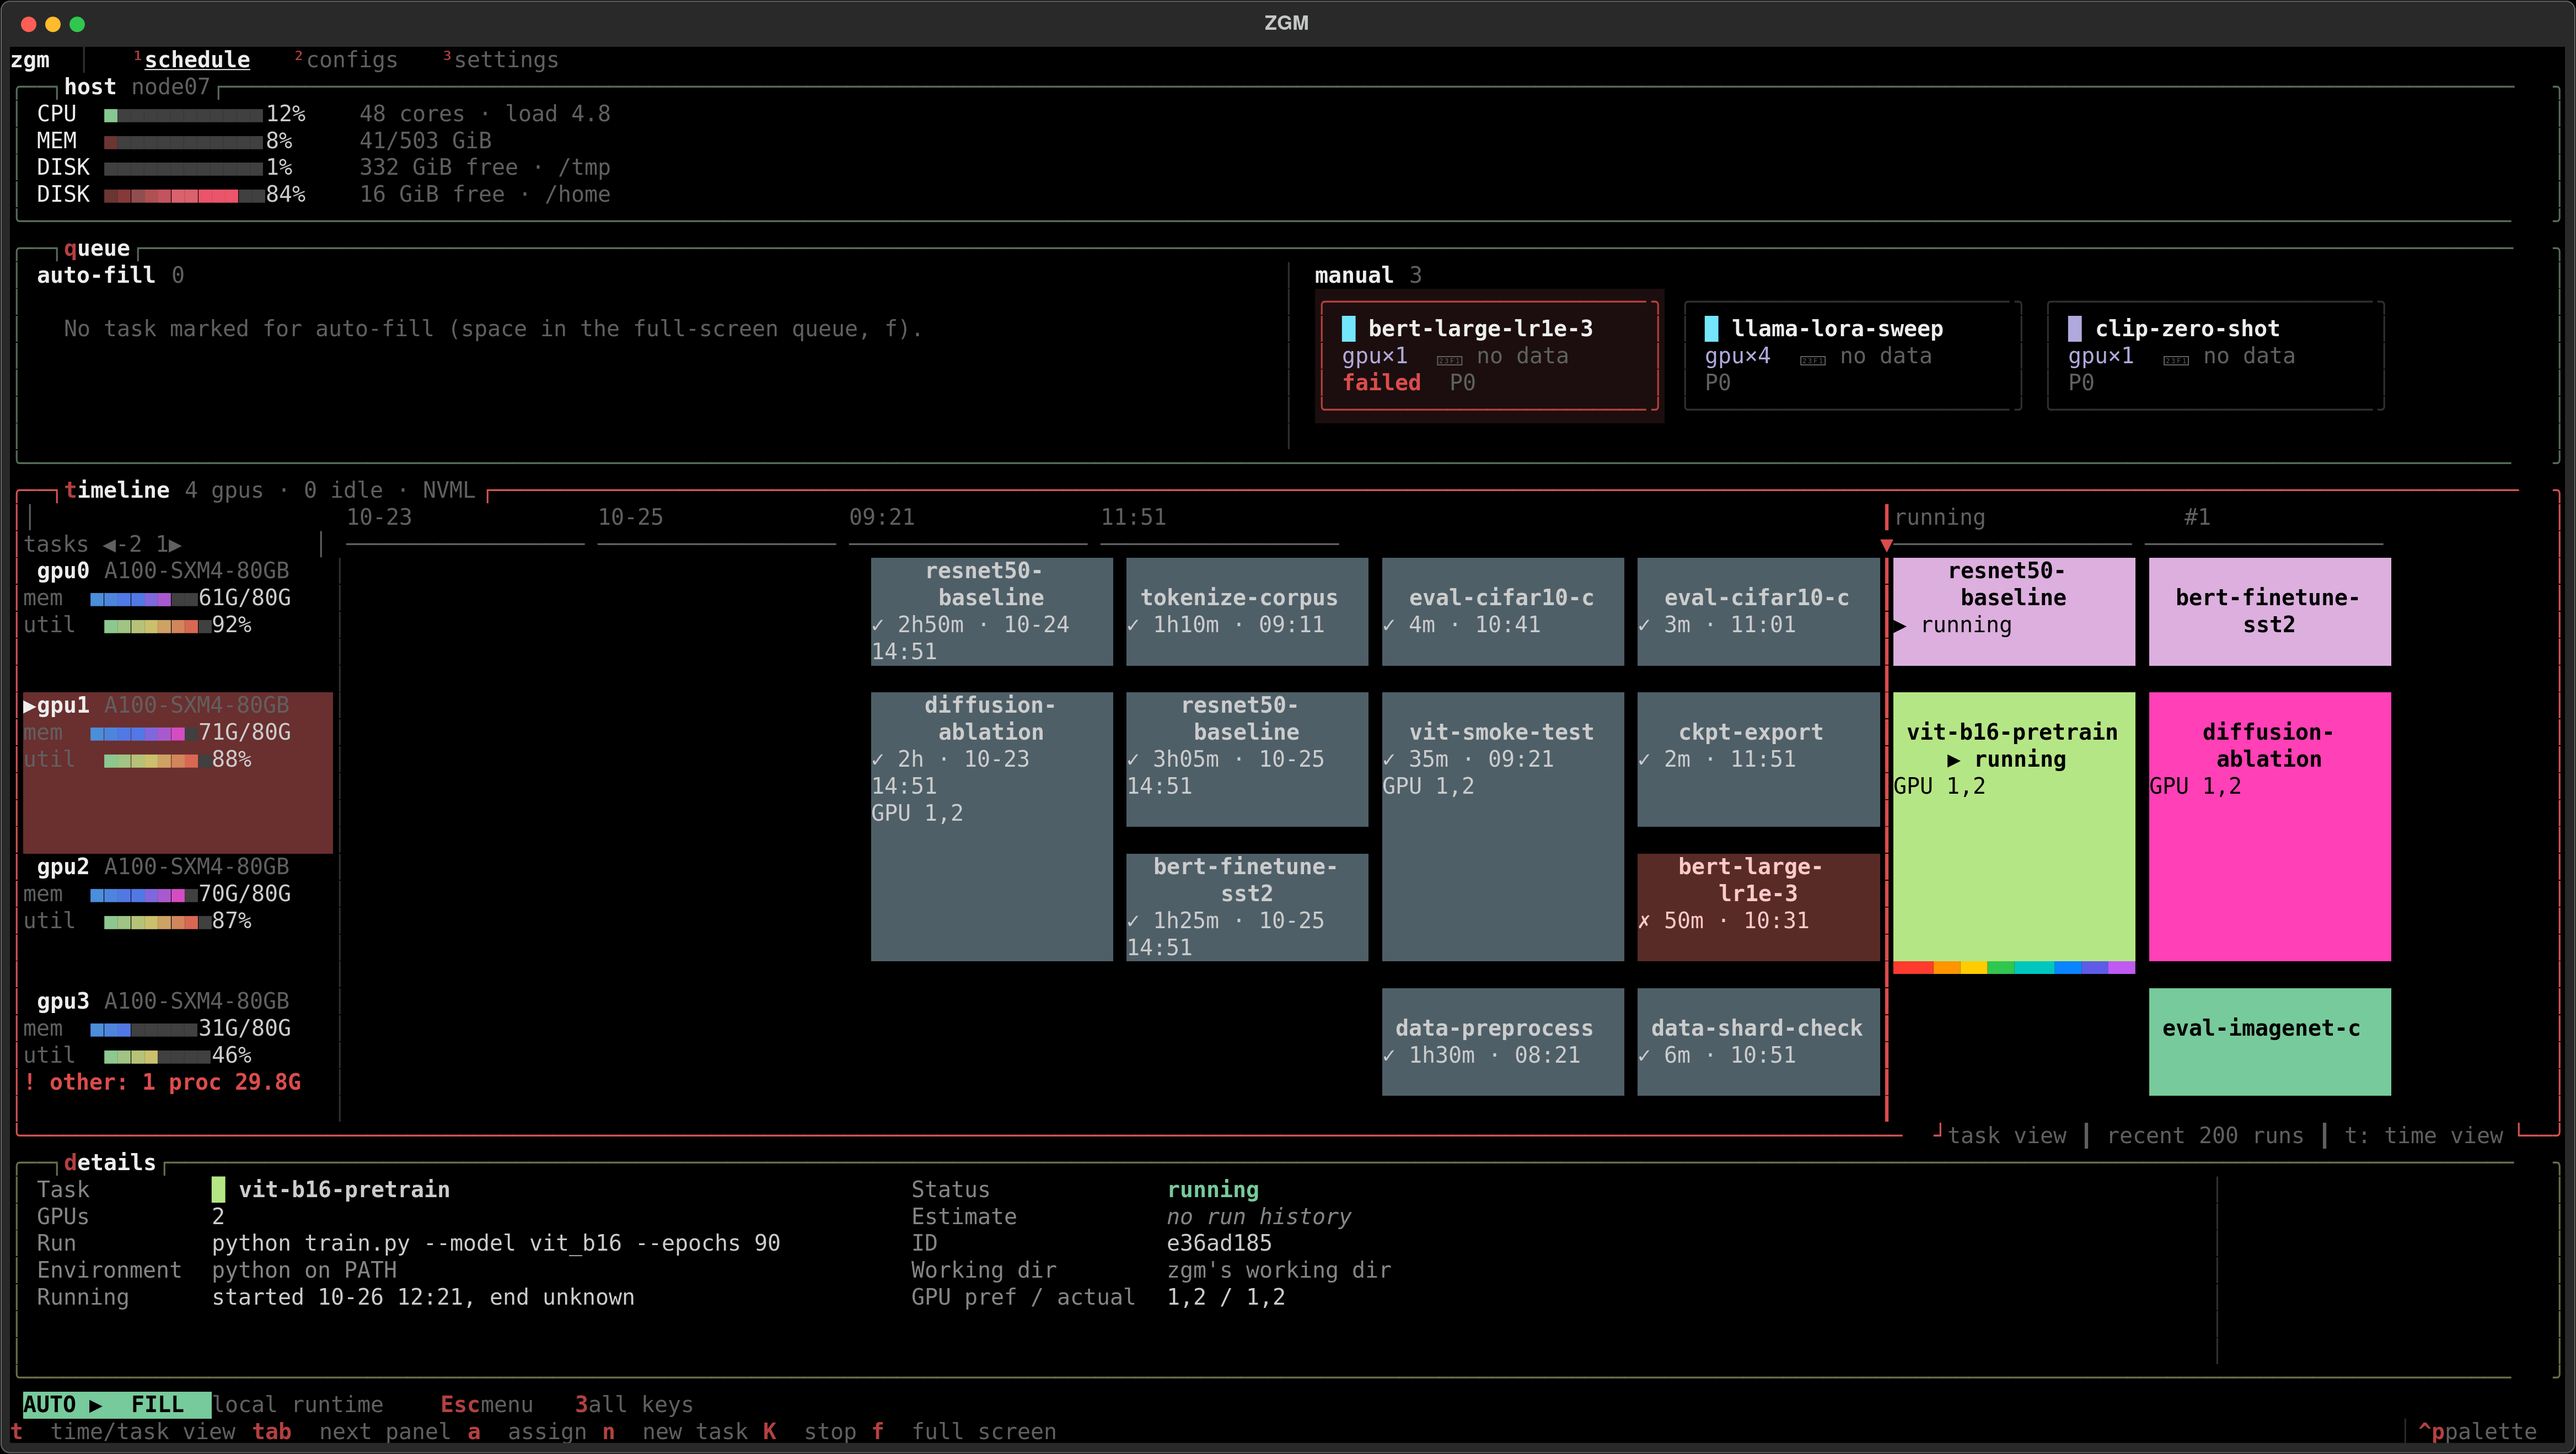
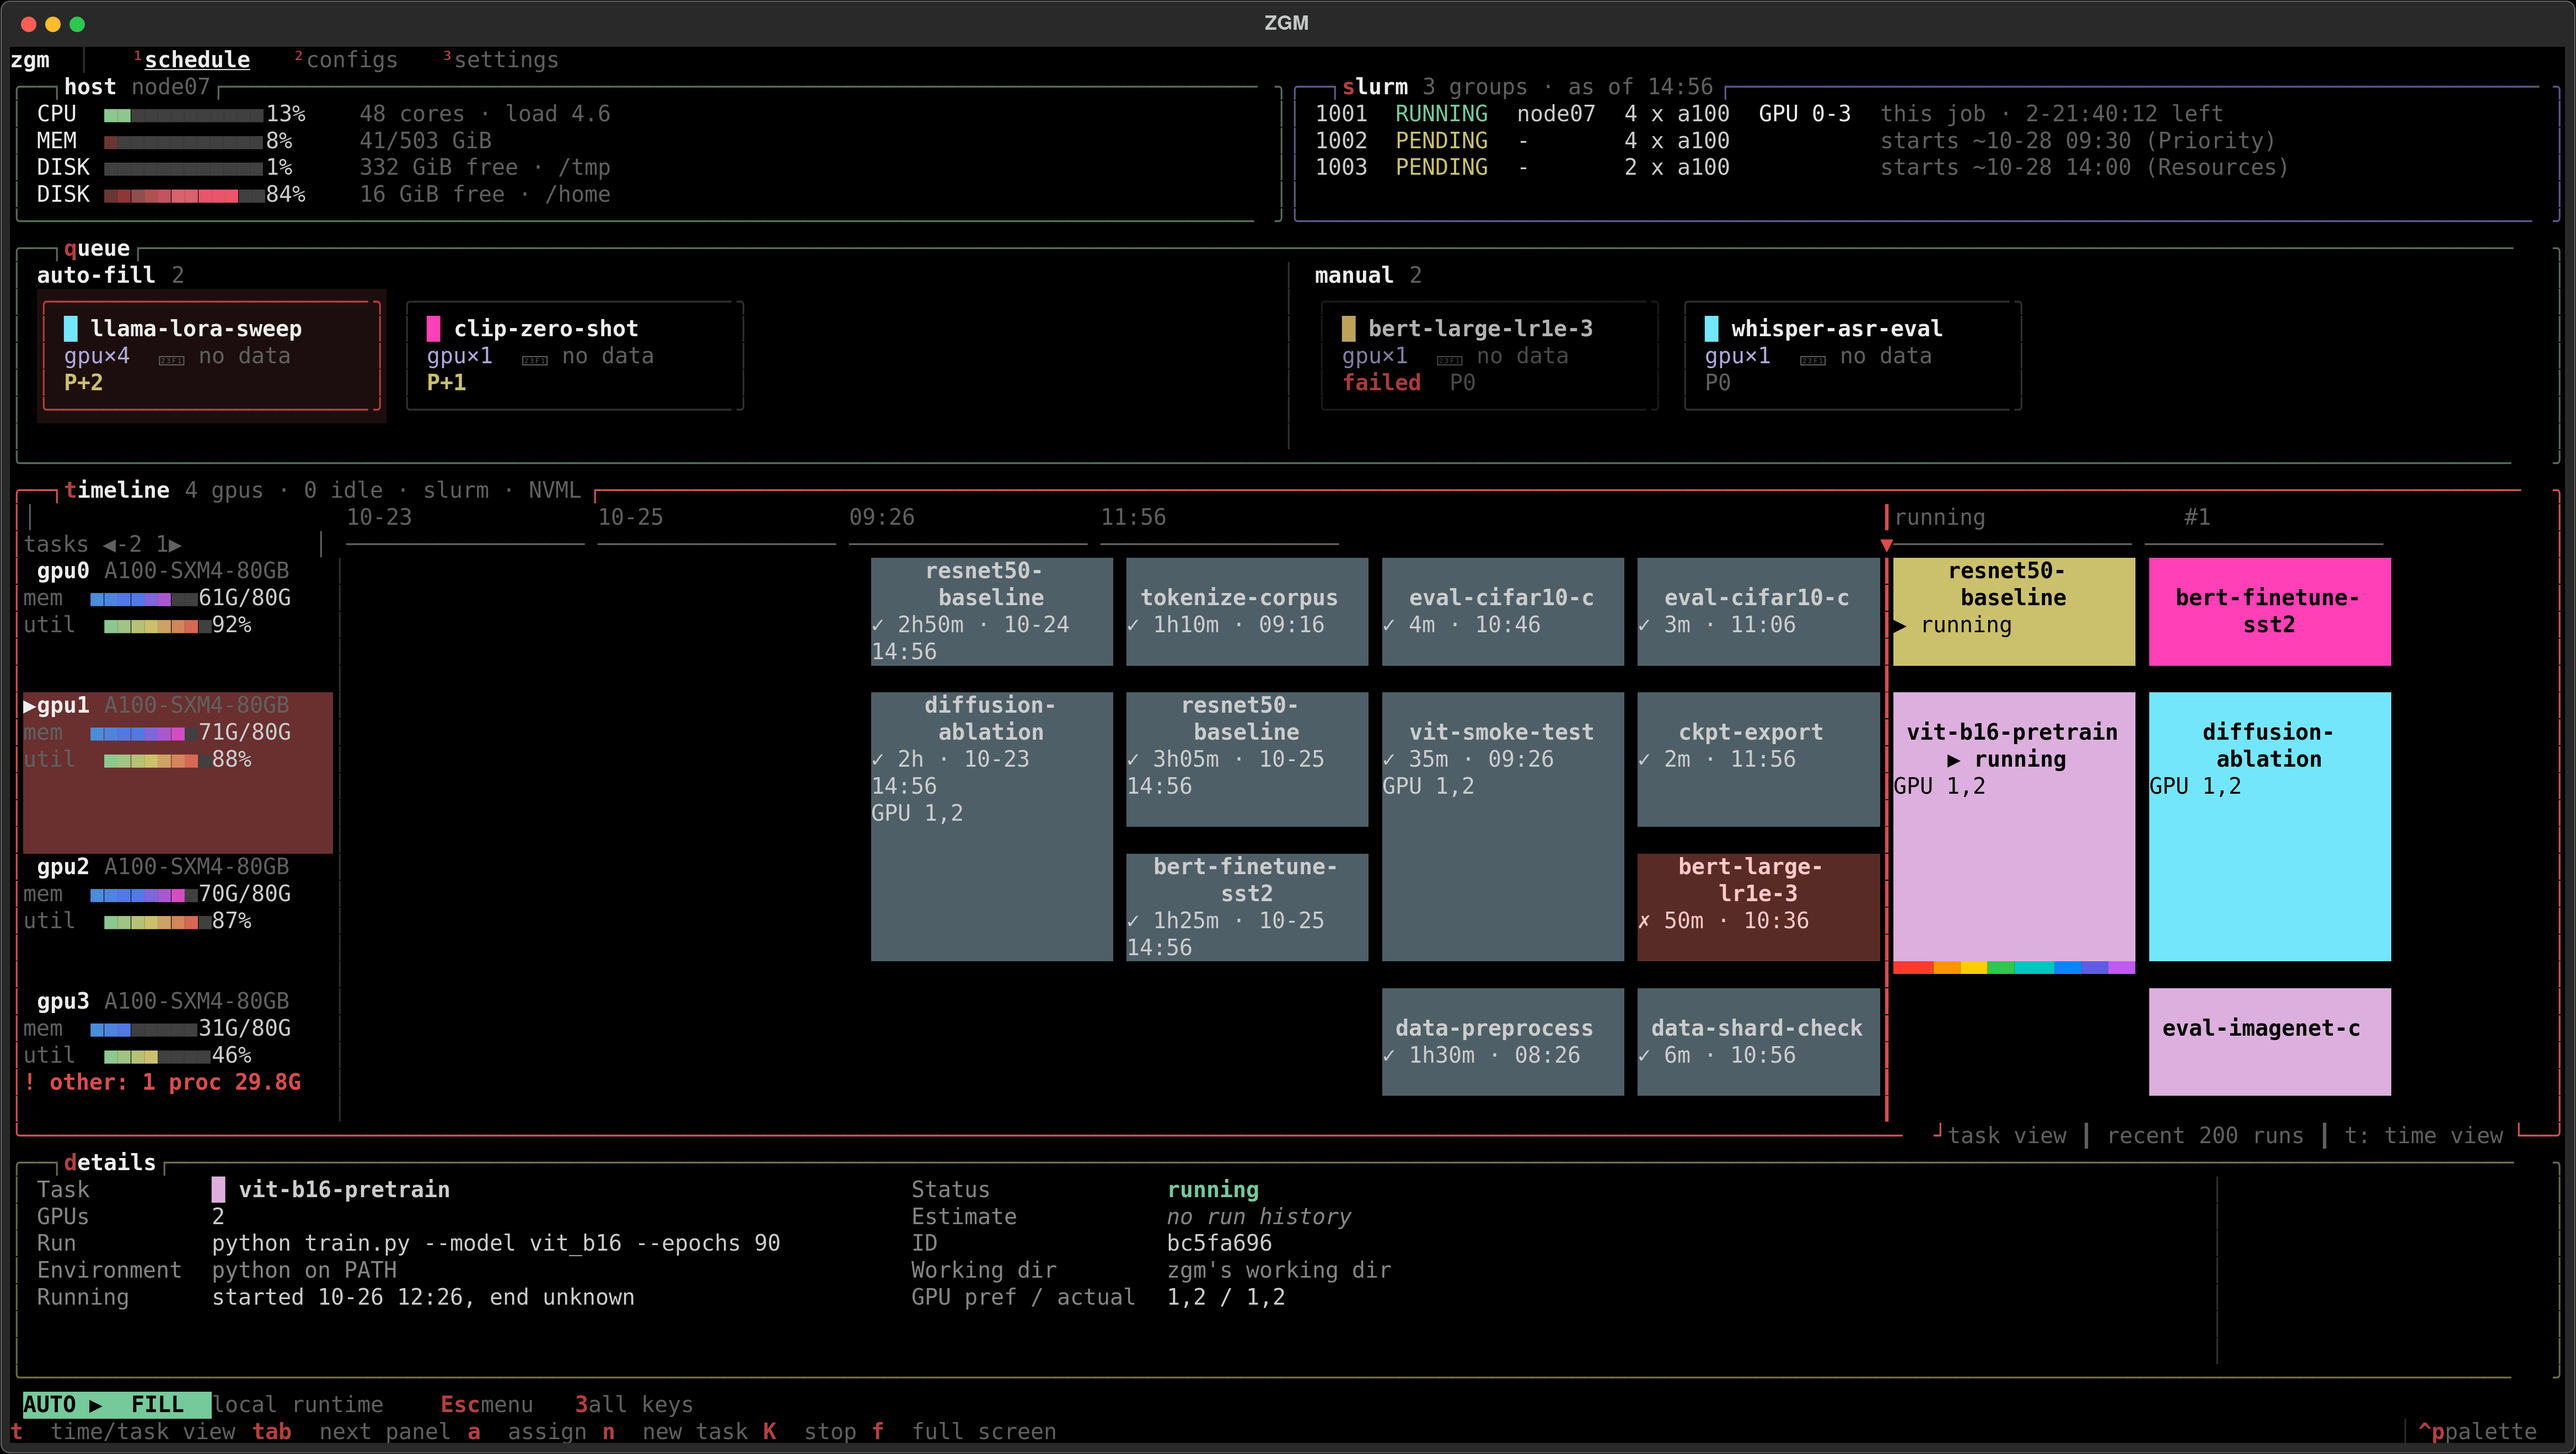
README: first picture shows host, Slurm and both queue sections; settings view
- The screenshot scene gets a made-up Slurm panel (display only: one job
  holding the four GPUs, two pending) and waiting tasks in both queue
  sections, two of them for auto-fill with priorities. The first picture's
  caption explains each part.
- A new picture of the settings view (the shared switches and every key);
  auto-fill is described as highest priority first, oldest among equals.
- The timeline's left/right keys are listed as previous / next run.

Claude-Session: https://claude.ai/code/session_01S2SjoknaHBsKbwFzc5VVDi

diff --git a/scripts/make_screenshots.py b/scripts/make_screenshots.py
@@ -23,6 +23,7 @@ import tempfile
 import time
 from datetime import datetime, timedelta
 from pathlib import Path
+from types import SimpleNamespace
 
 ROOT = Path(__file__).resolve().parents[1]
 OUT = ROOT / "docs" / "images"
@@ -37,6 +38,27 @@ from zgm.runtime.base import RunHandle, RunState  # noqa: E402
 from zgm.services.scheduler import AssignmentService  # noqa: E402
 from zgm.services.task_store import TaskStore, add_completed_run  # noqa: E402
 from zgm.storage.sqlite import SqliteStorage  # noqa: E402
+
+
+class DemoCluster:
+    """What the cluster panel shows, made up: Slurm jobs, one of them holding the
+    four GPUs. Display only: nothing is asked of a real Slurm."""
+
+    backend = SimpleNamespace(name="slurm")
+
+    def table(self) -> list[list[str]]:
+        return [["1001", "RUNNING", "node07", "4 x a100", "GPU 0-3", "this job · 2-21:40:12 left"],
+                ["1002", "PENDING", "-", "4 x a100", "", "starts ~10-28 09:30 (Priority)"],
+                ["1003", "PENDING", "-", "2 x a100", "", "starts ~10-28 14:00 (Resources)"]]
+
+    def seen_at(self) -> str:
+        return datetime.now().isoformat(timespec="seconds")
+
+    def node_of(self, gpus):
+        return None
+
+    def invalidate(self) -> None:
+        pass
 
 
 class StillRunning:
@@ -106,7 +128,11 @@ def scene(db: Path) -> None:
                                      actual_start=start, actual_end=start + timedelta(minutes=50),
                                      state=AssignmentState.FAILED), "failed")
 
-    for t in (resnet, vit, bert, evalc, diff, llama, clip):
+    # waiting: two for auto-fill (with priorities), the rest manual
+    whisper = task("whisper-asr-eval", "python asr_eval.py --model whisper-large")
+    for t, prio in ((llama, 2), (clip, 1)):
+        t.autofill, t.priority = True, prio
+    for t in (resnet, vit, bert, evalc, diff, llama, clip, whisper):
         store.add_task(t)
     for t, gpus, minutes in ((resnet, (0,), 95), (vit, (1, 2), 150)):
         began = now - timedelta(minutes=minutes)
@@ -125,7 +151,9 @@ def scene(db: Path) -> None:
 def make_app(db: Path, configs: Path) -> ZGMApp:
     app = ZGMApp(storage=SqliteStorage(db), mock_gpus=4, config_dir=configs,
                  stats_interval=0, runtime=StillRunning(), card_width=18)
-    app.gpu_source = "NVML"
+    app.cluster = DemoCluster()  # the top row's cluster box, as on a Slurm cluster
+    app.follow_cluster = lambda: None  # nothing to follow: the groups are made up
+    app.gpu_source = "slurm · NVML"
     for g, (used, util) in zip(app.gpus, [(61, 92), (71, 88), (70, 87), (31, 46)]):
         g.name = "NVIDIA A100-SXM4-80GB"
         g.memory_used, g.utilization = used * 1024**3, util
@@ -148,12 +176,16 @@ async def shoot(svg_dir: Path, configs: Path) -> list[Path]:
         await pilot.press("t")  # the task view: one card per run
         await pilot.pause()
         shots.append(Path(app.save_screenshot("tasks.svg", str(svg_dir))))
-        app.screen.queue.focus()
-        await pilot.press("right", "right")  # a waiting task (clip-zero-shot)
+        clip = next(t for t in app.store.tasks.values() if t.name == "clip-zero-shot")
+        app.screen.queue.select(clip.id)  # a waiting task
+        await pilot.pause()
         await pilot.press("a", "down", "down")  # place it: right after now, then on GPU 2
         await pilot.pause()
         shots.append(Path(app.save_screenshot("placing.svg", str(svg_dir))))
-        await pilot.press("escape", "2")
+        await pilot.press("escape", "3")  # the settings view: switches and all keys
+        await pilot.pause()
+        shots.append(Path(app.save_screenshot("settings.svg", str(svg_dir))))
+        await pilot.press("2")
         await pilot.pause()
         screen = app.screen
         screen.current = app.config_repo.get("resnet50_adamw_bs512").path

diff --git a/src/zgm/widgets/gpu_timeline.py b/src/zgm/widgets/gpu_timeline.py
@@ -230,8 +230,8 @@ class TimeAxis(Widget):
 
 class GPUTimeline(Vertical, can_focus=True):
     BINDINGS = [
-        Binding("left", "cursor(-1)", "earlier", show=False),
-        Binding("right", "cursor(1)", "later", show=False),
+        Binding("left", "cursor(-1)", "previous run", show=False),
+        Binding("right", "cursor(1)", "next run", show=False),
         Binding("up,k", "gpu(-1)", "GPU above", show=False),
         Binding("down,j", "gpu(1)", "GPU below", show=False),
         Binding("h", "pan(1)", "time: back / cards: left", show=False),

diff --git a/README.md b/README.md
@@ -4,9 +4,9 @@
 
 You have a few GPUs and a list of training runs. Put the runs in the queue, say which GPUs each one gets, and zgm starts each run as soon as its GPUs are free, one after another. You can watch it all on one screen: what's running, what's next, and what already finished.
 
-![The zgm dashboard: the host, the waiting tasks, a timeline of the GPUs, and the selected job's details](docs/images/schedule.png)
+![The zgm dashboard: the host and the Slurm jobs at the top, the waiting tasks (auto-fill and manual), a timeline of the GPUs, and the selected job's details](docs/images/schedule.png)
 
-<sub>Demo data, timeline in the time view. The red line is now: left of it, what already ran and what is running, to scale; right of it, the estimated queue, and on the far right the jobs whose start is not known yet. The rainbow bar marks the selected run. GPU 3 is in use by another program (`! other`).</sub>
+<sub>Demo data. At the top, this machine's load and, on a cluster, your Slurm jobs and the GPUs zgm got from them. Then the waiting tasks: those idle GPUs may take on their own (auto-fill, by priority) and those you place yourself (manual). The timeline is in the time view: the red line is now; left of it, what already ran and what is running, to scale; right of it, the estimated queue, and on the far right the jobs whose start is not known yet. The rainbow bar marks the selected run. GPU 3 is in use by another program (`! other`).</sub>
 
 > **Scripts and AI agents:** see [AGENTS.md](AGENTS.md) for using zgm from the command line only, with JSON output.
 
@@ -118,10 +118,12 @@ After 10 minutes without a key or the mouse the view stops redrawing (`IDLE` at 
 
 The bar at the bottom says whether jobs are being started automatically (**AUTO**), are paused (**PAUSED**), or whether nothing is running the queue (**PLAN ONLY**; start it with `zgm daemon start`). **FILL** next to AUTO means auto-fill is on.
 
-The settings view (`3`) holds switches that every zgm on the queue shares:
+The settings view (`3`) holds switches that every zgm on the queue shares, and lists every key:
 
 - **Auto-start** (the same as `p`).
-- **Auto-fill idle GPUs**: when a GPU has nothing running or queued, zgm starts the oldest job of the queue's *auto-fill* section that fits there. Jobs whose last run failed or was stopped are left for you.
+- **Auto-fill idle GPUs**: when a GPU has nothing running or queued, zgm starts the job of the queue's *auto-fill* section with the highest priority that fits there (the oldest among equals). Jobs whose last run failed or was stopped are left for you.
+
+![The settings view: the auto-start and auto-fill switches, and all keys by panel](docs/images/settings.png)
 
 Full screen (`f`), the queue lists its jobs in two sections, **auto-fill** and **manual**, and in each by the folder of their config. New jobs go to manual. `space` moves the selected job to the other section, `A` its whole folder; `zgm submit --autofill` adds a job straight to auto-fill. Auto-fill takes the job with the highest priority first (`+` / `-` there, `zgm submit --priority N`, or `_scheduler_.priority` in a config; default 0), the oldest among equals.
 
